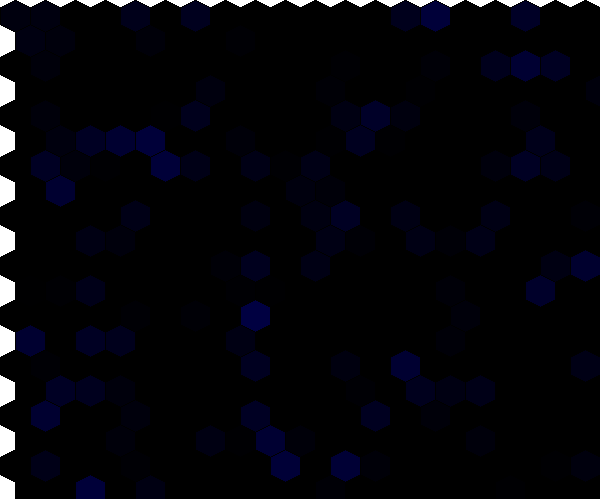
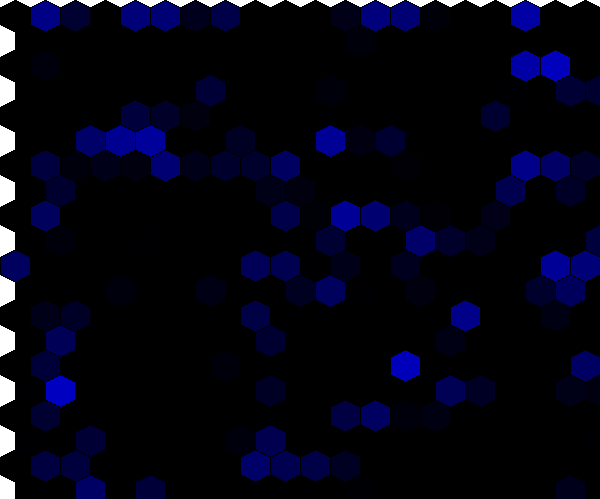
Changes to reward model

diff --git a/hexworld/mcts.py b/hexworld/mcts.py
@@ -67,22 +67,34 @@ class MCTS:
         coord_space = [(h.x, h.y) for h in hex_space]
         return coord_space
     
-    def calculate_reward(self, state: World, action, next_state: World):
+    def calculate_reward(self, state: World, action):
         reward = 0
+
         for hex in state.hexes:
             x, y = hex.x, hex.y
-            # evacuated and flooded
-            if (x,y) in action and next_state.grid[x][y].flood_flag:
-                reward += R_FLOOD_EVAC*hex.population
-            # evacuated and not flooded
-            if (x, y) in action and not next_state.grid[x][y].flood_flag:
-                reward += R_DRY_EVAC*hex.population
-            # not evacuated and flooded
-            if (x,y) not in action and next_state.grid[x][y].flood_flag:
+            # cost for evacuating a hex
+            if (x,y) in action:
+                reward += R_EVAC*hex.population
+            # reward if hex flooded and already evacuated
+            if hex.flood_flag and hex.population==0:
+                reward += R_FLOOD_EVAC
+            # reward if hex flooded and not evacuated
+            if hex.flood_flag and hex.population>0:
                 reward += R_FLOOD_NO_EVAC*hex.population
-            # not evacuated and not flooded
-            if (x,y) not in action and not next_state.grid[x][y].flood_flag:
-                reward += R_DRY_NO_EVAC*hex.population
+        # for hex in state.hexes:
+        #     x, y = hex.x, hex.y
+        #     # evacuated and flooded
+        #     if (x,y) in action and next_state.grid[x][y].flood_flag:
+        #         reward += R_FLOOD_EVAC*hex.population
+        #     # evacuated and not flooded
+        #     if (x, y) in action and not next_state.grid[x][y].flood_flag:
+        #         reward += R_DRY_EVAC*hex.population
+        #     # not evacuated and flooded
+        #     if (x,y) not in action and next_state.grid[x][y].flood_flag:
+        #         reward += R_FLOOD_NO_EVAC*hex.population
+        #     # not evacuated and not flooded
+        #     if (x,y) not in action and not next_state.grid[x][y].flood_flag:
+        #         reward += R_DRY_NO_EVAC*hex.population
         return reward
     
     
@@ -98,12 +110,10 @@ class MCTS:
                 evac_hexes = action_space
             else:
                 evac_hexes = random.choices(action_space, k=MAX_EVAC_CELLS)
-            # get the next state and repeat
-            next_state = self.get_next_state(rollout_state, evac_hexes)
             # calculate reward for this action step and add to the total utility            
-            utility += self.calculate_reward(rollout_state, evac_hexes, next_state)
+            utility += self.calculate_reward(rollout_state, evac_hexes)
             # get the next state and repeat
-            rollout_state = next_state
+            rollout_state = self.get_next_state(rollout_state, evac_hexes)
         return utility
 
     def get_branched_actions(self, state, depth):
@@ -129,7 +139,13 @@ class MCTS:
         if len(action_space) < max_actions:
             actions = action_space
         else:
-            actions = random.choices(action_space, k=max_actions)
+            if MCTS_RUN:
+                # sort the actions based on the average water level of each action if the action is not empty
+                action_space.sort(key=lambda x: np.sum([state.grid[i[0]][i[1]].water_level for i in x]) if len(x) > 0 else 0, reverse=True)
+                # choose the best k actions from the sorted list
+                actions = action_space[:max_actions]
+            else:
+                actions = random.choices(action_space, k=max_actions)
         return actions
 
     def get_best_action(self, parent):
@@ -145,7 +161,6 @@ class MCTS:
     def ucb1(self, node):
         if node.visits == 0:
             return float("inf")
-            # return 1000
         # otherwise, return the UCB1 heuristic for the node
         return (node.reward/node.visits) + (C/(node.depth)) * np.sqrt(np.log(node.parent.visits) / node.visits)
     
@@ -275,11 +290,11 @@ def mcts_run(state: World):
             obj.expand_state(obj.root)
         else:
             action = simulate_dpw(obj,t)
+        net_reward += obj.calculate_reward(state, action)
         next_state = obj.get_next_state(state, action)
-        net_reward += obj.calculate_reward(state, action, next_state)
         state = next_state
         # print([child.name for child in obj.root.children[0].children])
-        obj.visualize()
+        # obj.visualize()
         obj = MCTS(state)
         t += 1
     return net_reward, state.death_toll()
@@ -309,7 +324,7 @@ def RandPolicy(state: World):
         print("Outer loop: ",t)
         action = RandAct(state, SIM_TIME - t)
         next_state = obj.get_next_state(state, action)
-        net_reward += obj.calculate_reward(state, action, next_state)
+        net_reward += obj.calculate_reward(state, action)
         state = next_state
         t += 1
     # return net reward and total death toll
@@ -320,12 +335,11 @@ def RandPolicy(state: World):
 def main():
     # Create a world
     world = World(20, 20)
-    # Create a MCTS object
-    # mcts = MCTS(world)    
-    reward,dead = mcts_run(world)
-    # reward,dead = RandPolicy(world)
-    # depict the tree
-    # mcts.visualize()
+    # Create a MCTS object 
+    if MCTS_RUN:
+        reward,dead = mcts_run(world)
+    else:
+        reward,dead = RandPolicy(world)
     print(reward," ",dead)
     
 

diff --git a/hexworld/constants.py b/hexworld/constants.py
@@ -13,7 +13,7 @@ HEX_RECT_HEIGHT = SIDE_LENGTH + 2 * HEX_HEIGHT
 HEX_RECT_WIDTH = 2 * HEX_RADIUS
 
 ## Any other constants useful for simulation
-FLOOD_LEVEL = 5
+FLOOD_LEVEL = 2
 SIM_TIME = 20
 PRECIP_RATE = 0.5 # 6 in/hr = max recorded rainfall rate from Claudette
 MAX_DRAIN_RATE = 1.5 # 
@@ -25,12 +25,15 @@ MAX_ELEV_DEV = 5
 DRAIN_FAIL_LEVEL = FLOOD_LEVEL/4 # level after which drain failure can occur
 
 ## MDP Constants
-MAX_EVAC_CELLS = 3
+MAX_EVAC_CELLS = 3 # maximum number of cells that can be evacuated
 DISCOUNT = 0.9
 R_FLOOD_NO_EVAC = -10e-1 # reward for flooding per population
-R_DRY_NO_EVAC = 1e-1 # reward for evacuating per population
+# R_DRY_NO_EVAC = 1e-1 # reward for evacuating per population
 R_FLOOD_EVAC = 5e-1 # reward for surviving per population
-R_DRY_EVAC = -2e-1 # reward for evacuating per population
+# R_DRY_EVAC = -2e-1 # reward for evacuating per population
+R_FLOOD = 10e-1
+R_EVAC = -2e-1
+MCTS_RUN = True # boolean to alter run mode as MCTS or Random
 
 ## MCTS-DPW Constants
 MAX_DEPTH = 5 # maximum depth of tree defined by levels of actions 
